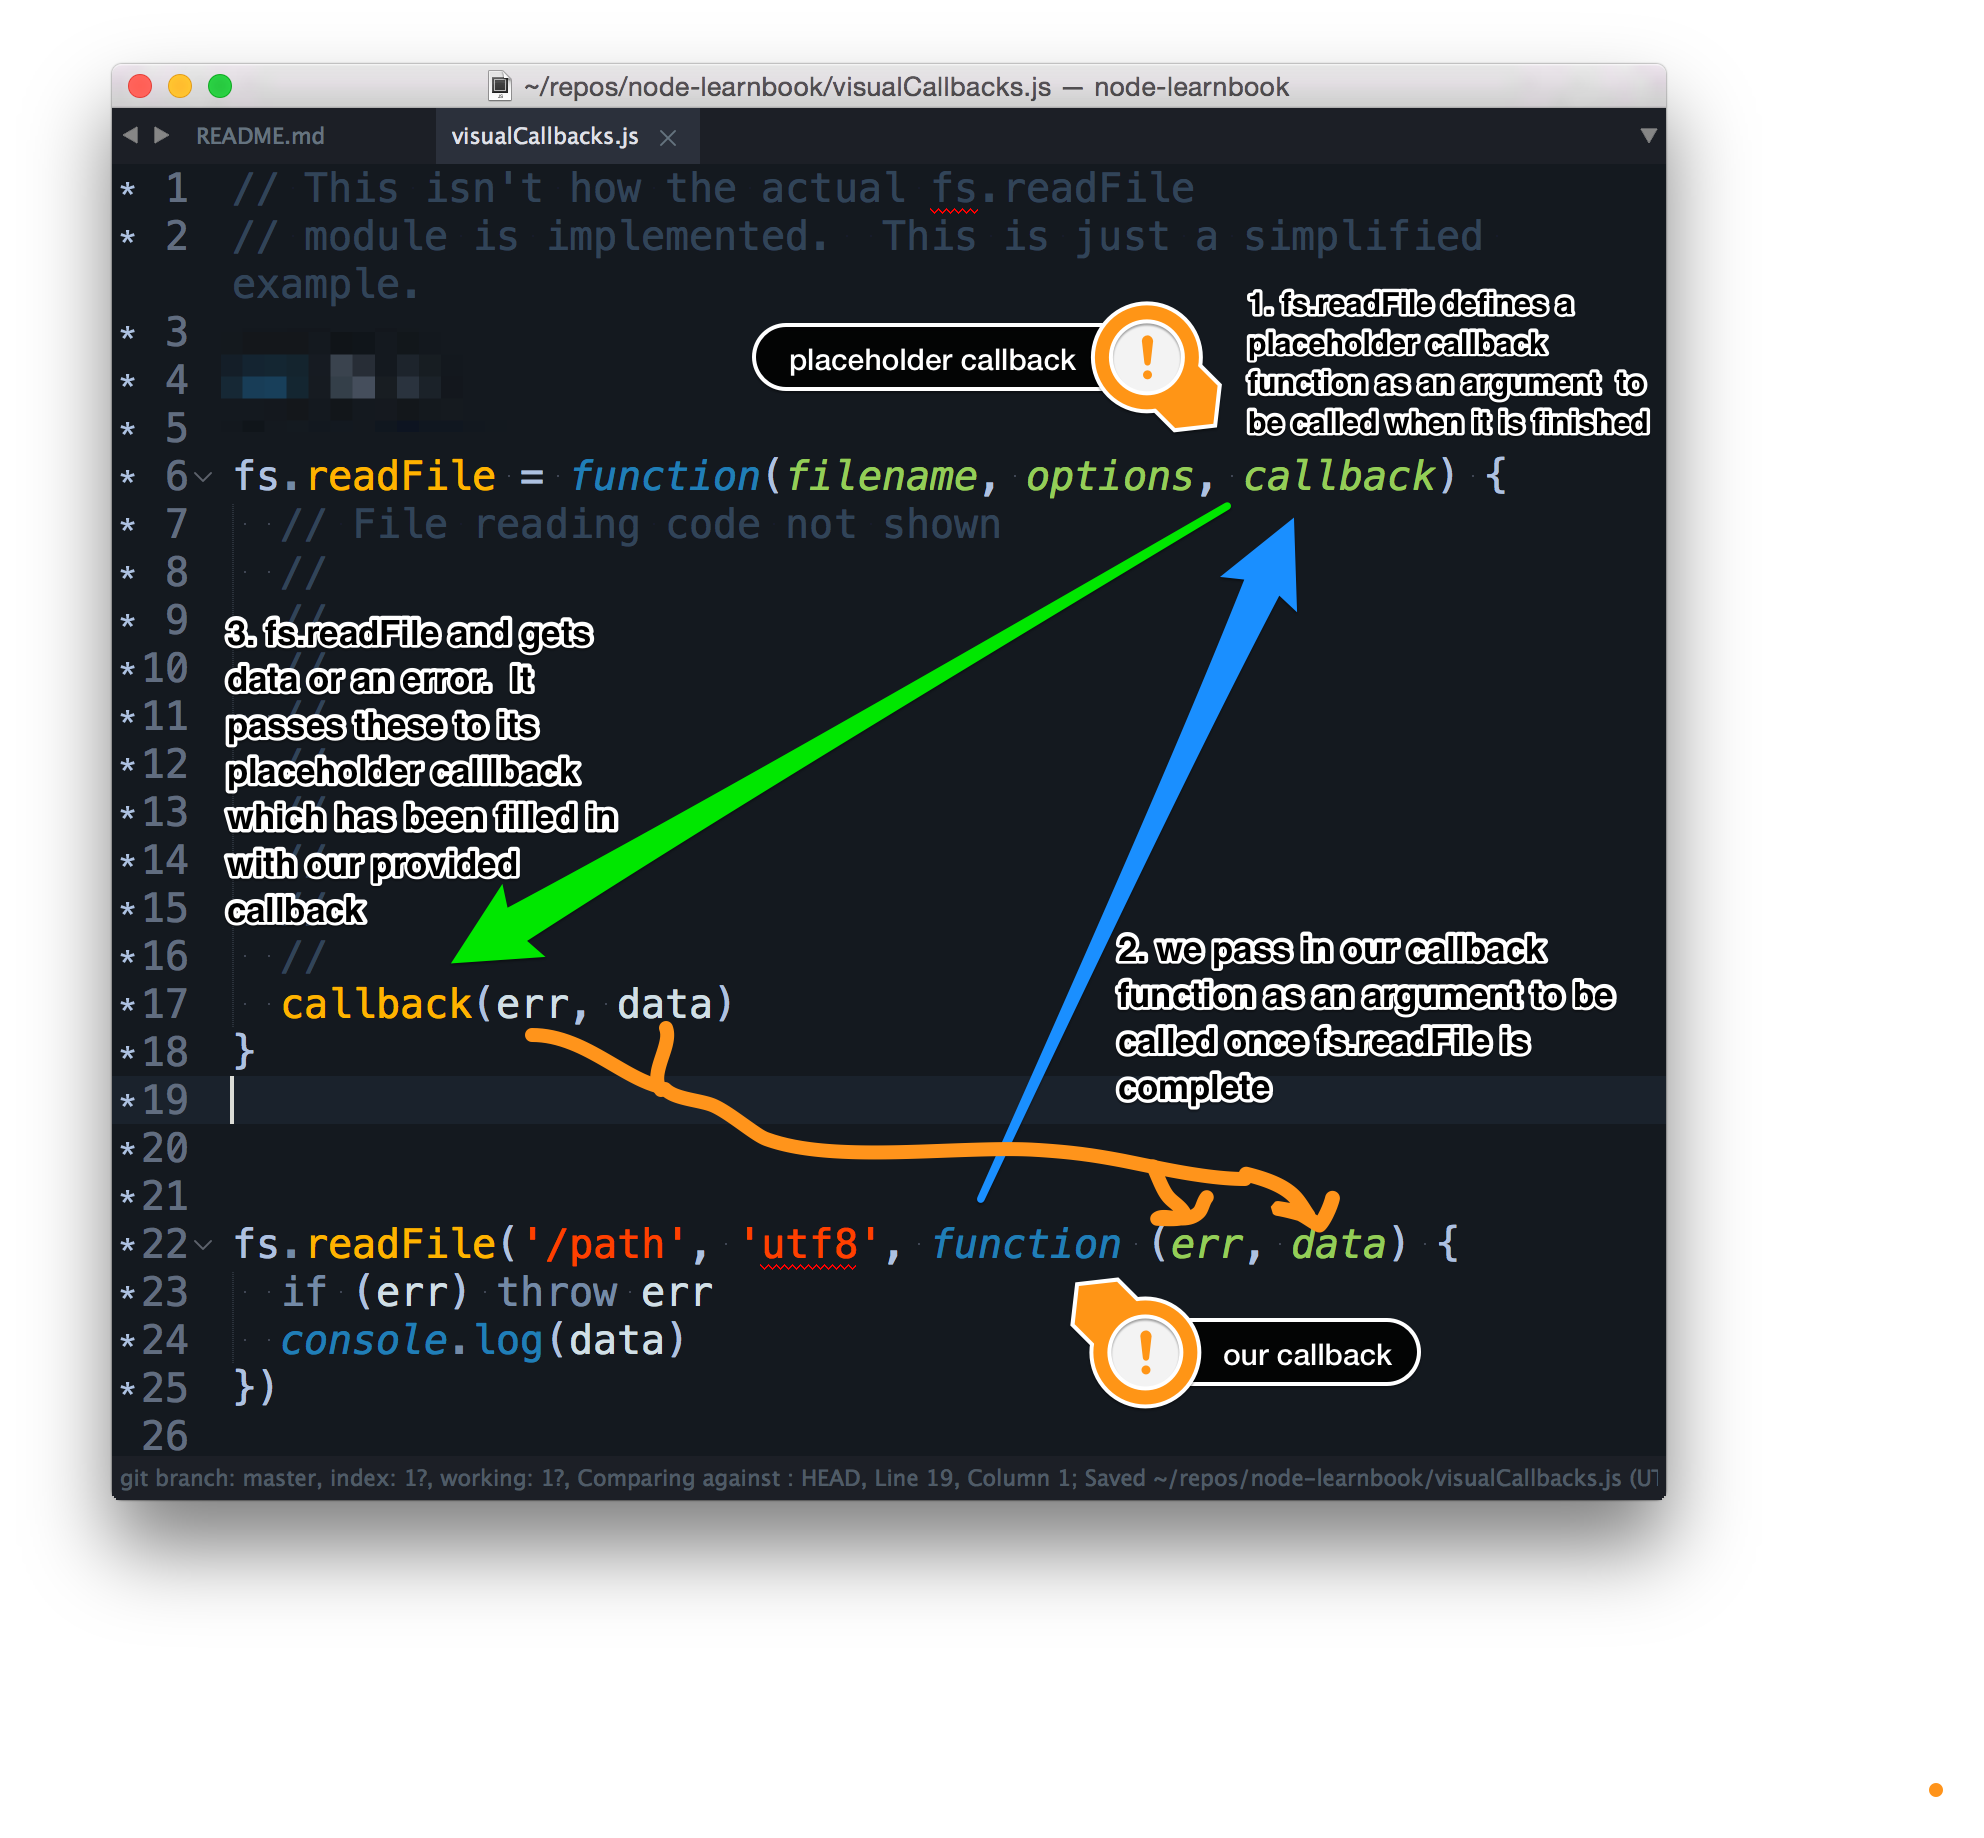
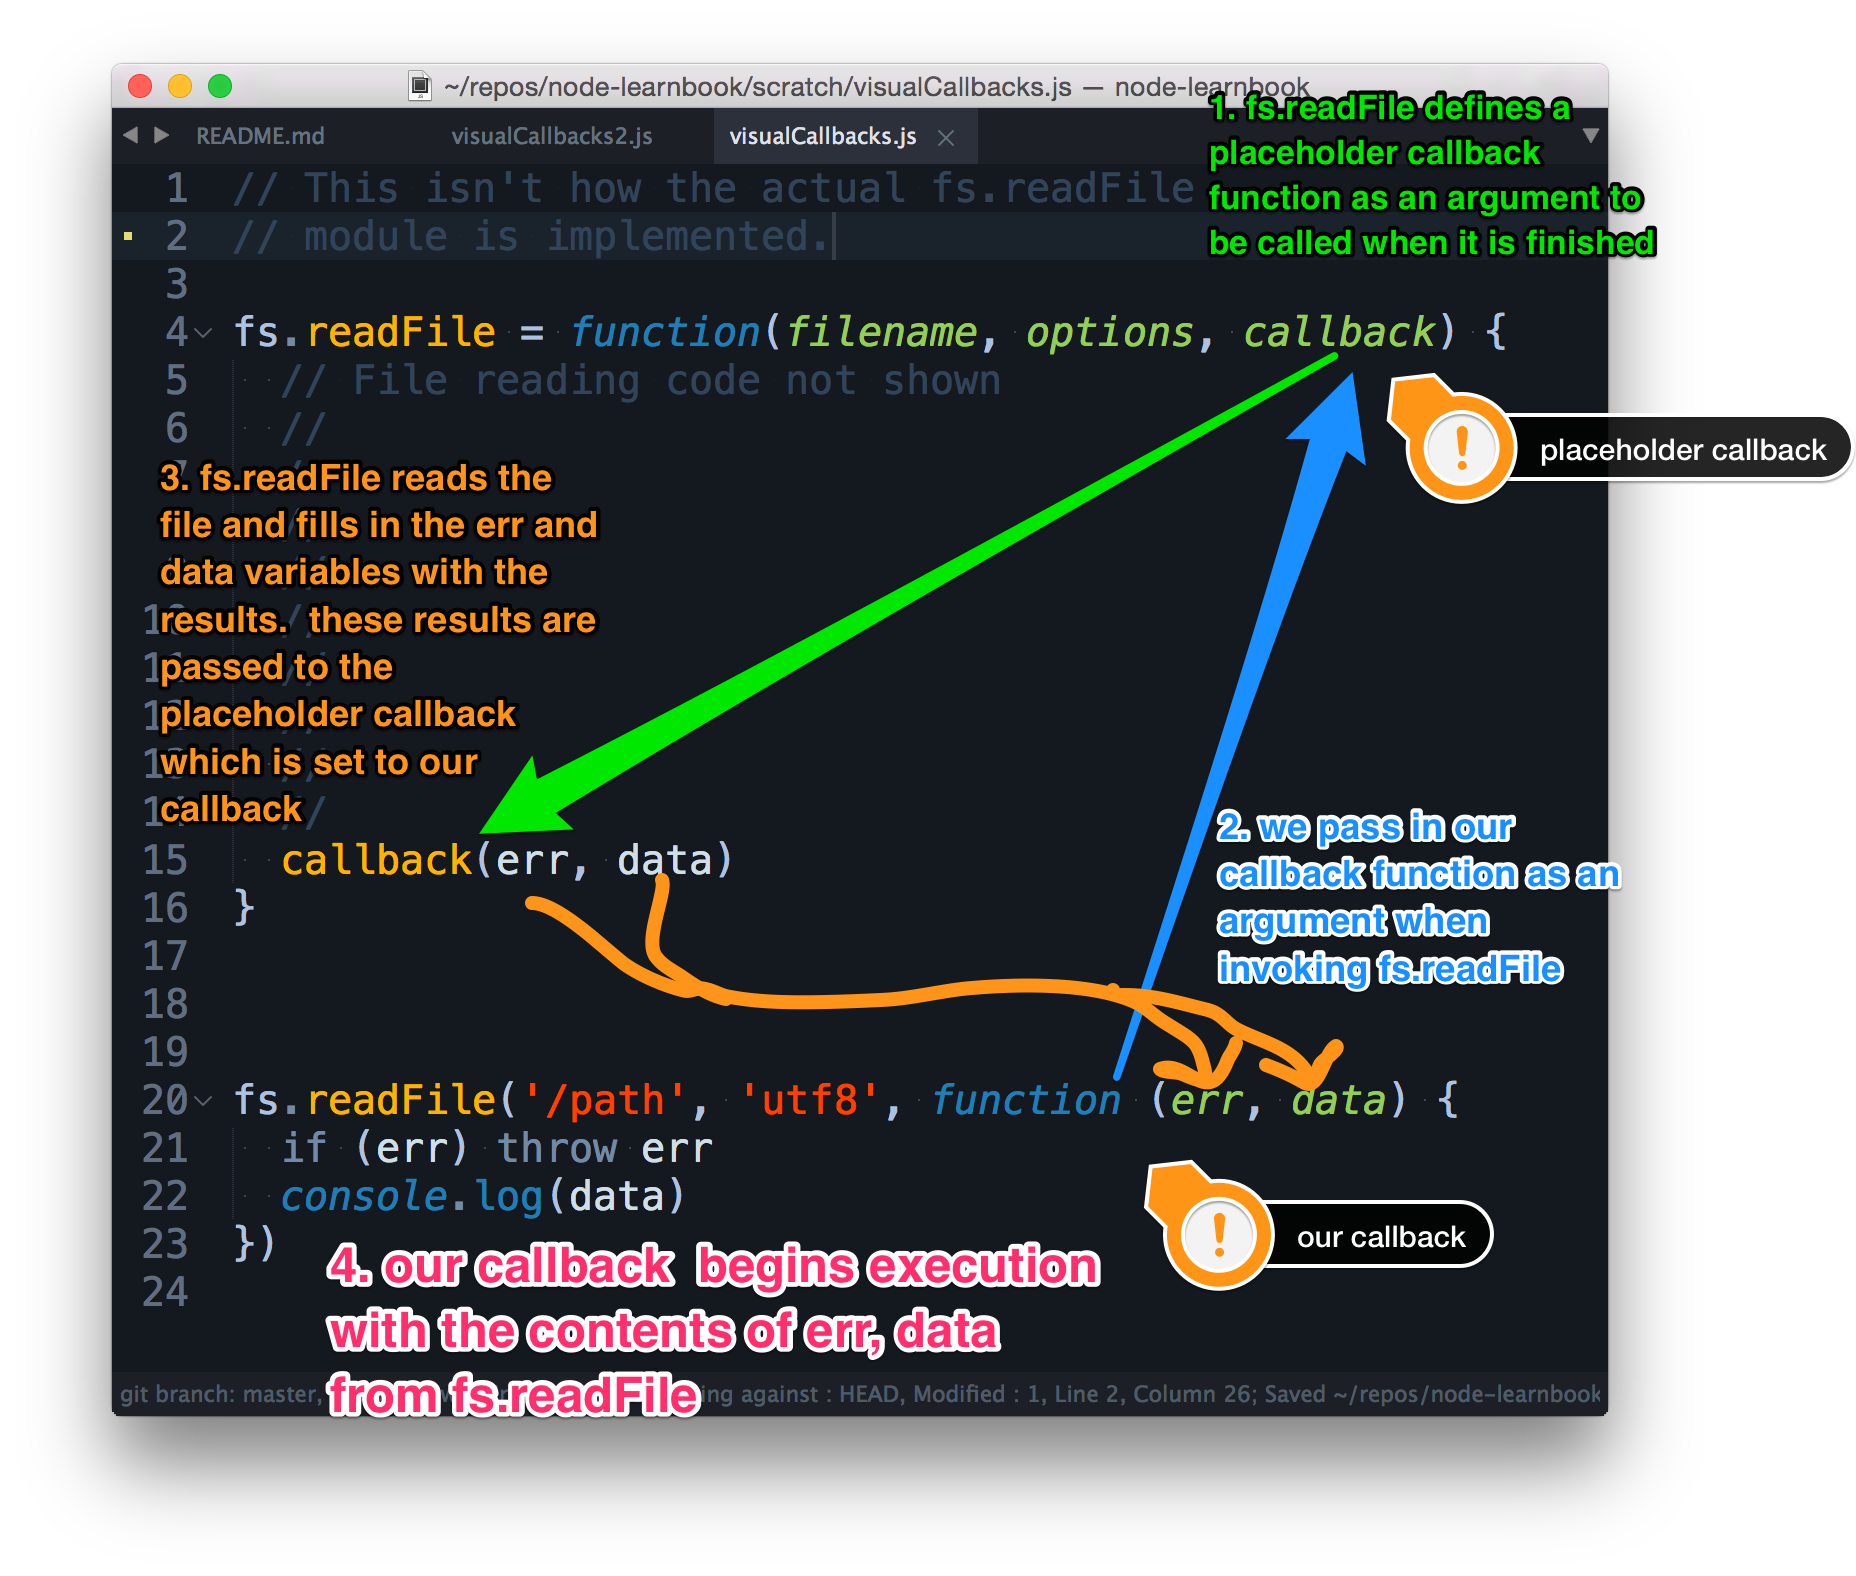
Added visual callback guide

diff --git a/scratch/visualCallbacks2.js b/scratch/visualCallbacks2.js
@@ -1,6 +1,3 @@
-// This isn't how the actual fs.readFile
-// module is implemented.
-
 fs.readFile = function(filename, options, callback) {
   // File reading code not shown
   //
@@ -15,9 +12,9 @@ fs.readFile = function(filename, options, callback) {
   callback(err, data)
 }
 
+fs.readFile('/path', 'utf8', logger)
 
-
-fs.readFile('/path', 'utf8', function (err, data) {
-  if (err) throw err
+function logger (err, data) {
+  if (err) return console.error(err)
   console.log(data)
-})
+}

diff --git a/scratch/visualCallbacks3.js b/scratch/visualCallbacks3.js
@@ -1,0 +1,17 @@
+var fs = require('fs')
+
+function uppercaseRead(path, callback) {
+  fs.readFile(path, 'utf8', function (err, data) {
+    if err return callback(err)
+    var uppercaseData = data.toUpperCase()
+    callback(null, uppercaseData)
+  }
+}
+
+function logger (err, data) {
+  if (err) return console.error(err)
+  console.log(data)
+}
+
+uppercaseRead('/path/to/file', logger)
+// Prints err or uper cased file content

diff --git a/README.md b/README.md
@@ -76,11 +76,13 @@ We will be acquiring items and tools along the way.
 
 Getting through all the material is going to take time.  Visit the places that seem most interesting, and don't get stuck on something you find boring or overwhelming.  Programming is [more fun and effective as a hobby](https://twitter.com/substack/status/586438480164589568) and you will learn more if you treat it that way.
 
+Do take breaks and try to build something interesting.  Even if you fail, you will learn something.  Publishing your experiments feels good and creates breadcrumbs for others to learn from.
+
 Don't go at it alone.  Get in touch with your local javascript and node community and make friends.  Don't live near anyone?
 
 ![](http://bret.io/media/ownyourgram.com/igiRHQt1.jpg)
 
-There is a vibrant and active community that is on-line at all hours of the day so you can remain isolated but still be connected with thousands of people.  Don't go at it alone! Skip ahead to [#community](https://github.com/bcomnes/node-learnbook#community) to find your way into the node community.
+There is a vibrant and active community that is on-line at all hours of the day so you can remain isolated but still be connected with thousands of people.  Skip ahead to [#community](https://github.com/bcomnes/node-learnbook#community) to find your way into the node community.
 
 ## Getting started.
 
@@ -321,17 +323,50 @@ npm i -g how-to-npm
 
 ![](img/how-to-npm.png)
 
-### Callbacks visualized
+## Callbacks visualized
 
-Callbacks are confusing at first, because you are writing functions that accepted variables that seemingly come out of nowhere.
+Callbacks are confusing at first, because you are writing functions that accept variables that seemingly come out of nowhere.
 
-These arguments/variables come from somewhere... and we are going to find this out now.
-
-They come from the internals of the function accepting the callback function!
+These variables come from the internals of the function accepting the callback function!
 
 Lets take a look:
 
 ![](img/visualcb1.png)
+
+1. First, we define `fs.readFile`.  Typically you import this as a module (e.g. `var fs = require('fs')`), but for this example we want get an idea of what is going on internally.  The code to actually read files is omitted, but at the end of the function we see that the `callback` argument is invoked as a function (e.g. `callback(err, data)` where the `err` and `data` variables would be defined inside the function somewhere when reading the file.)
+
+2. Next we invoke `fs.readFile` passing in string containing the path to the file we wish to read, encoding options, and a callback function that accepts `err` and `data` arguments to match the arguments that the `callback` placeholder defines in step 1.  The file is read and the placeholder callback is replaced with our callback function that we passed as an argument.
+
+3. After `fs.readFile` is done trying to read the file, it calls our callback function, passing to it `err` and `data` as arguments and our callback function then begins execution.  If there was no error when reading the file, `err` will be `undefined`/falsy so we can easily test for errors and handle them, or pass them along.
+
+Lets clean it up a little.
+
+![](img/visualcb2.png)
+
+We replace the anonymous function with an independent named function `logger` that we pass as the callback.  It's nearly the exact same thing as the first example, except now the function can be implemented independently from where we invoke fs.readFile.
+
+Ok, so it's not always practical to go digging around the internals of a module to locate the callback signature (e.g. the arguments) that it expects of your callback.  This is where the module's `README.md` comes in.
+
+How did we know `fs.readFile` expects a callback with `(err, data)` arguments?  We look it up!
+
+**[node.js API docs: fs.readFile](https://nodejs.org/api/fs.html#fs_fs_readfile_filename_options_callback)**
+
+![](img/readfile.png)
+
+Modules should come with a README.md with similar documentation.  If it doesn't have this, maybe look around for one that does.
+
+We can write our own callback functions just as easily.
+
+![](img/visualcb3.png)
+
+Here write an async function that wraps the fs.readFile asynchronous function.
+
+We write a function that accepts a callback as the last argument.  We do some asynchronous work, modify its output and then pass it into our callback.
+
+Easy!
+
+Well, in theory.  Callbacks take a bit of practice, but hopefully we can visualize callback flow and how variables and functions are passed around.
+
 
 ## Javascript the hard parts
 
